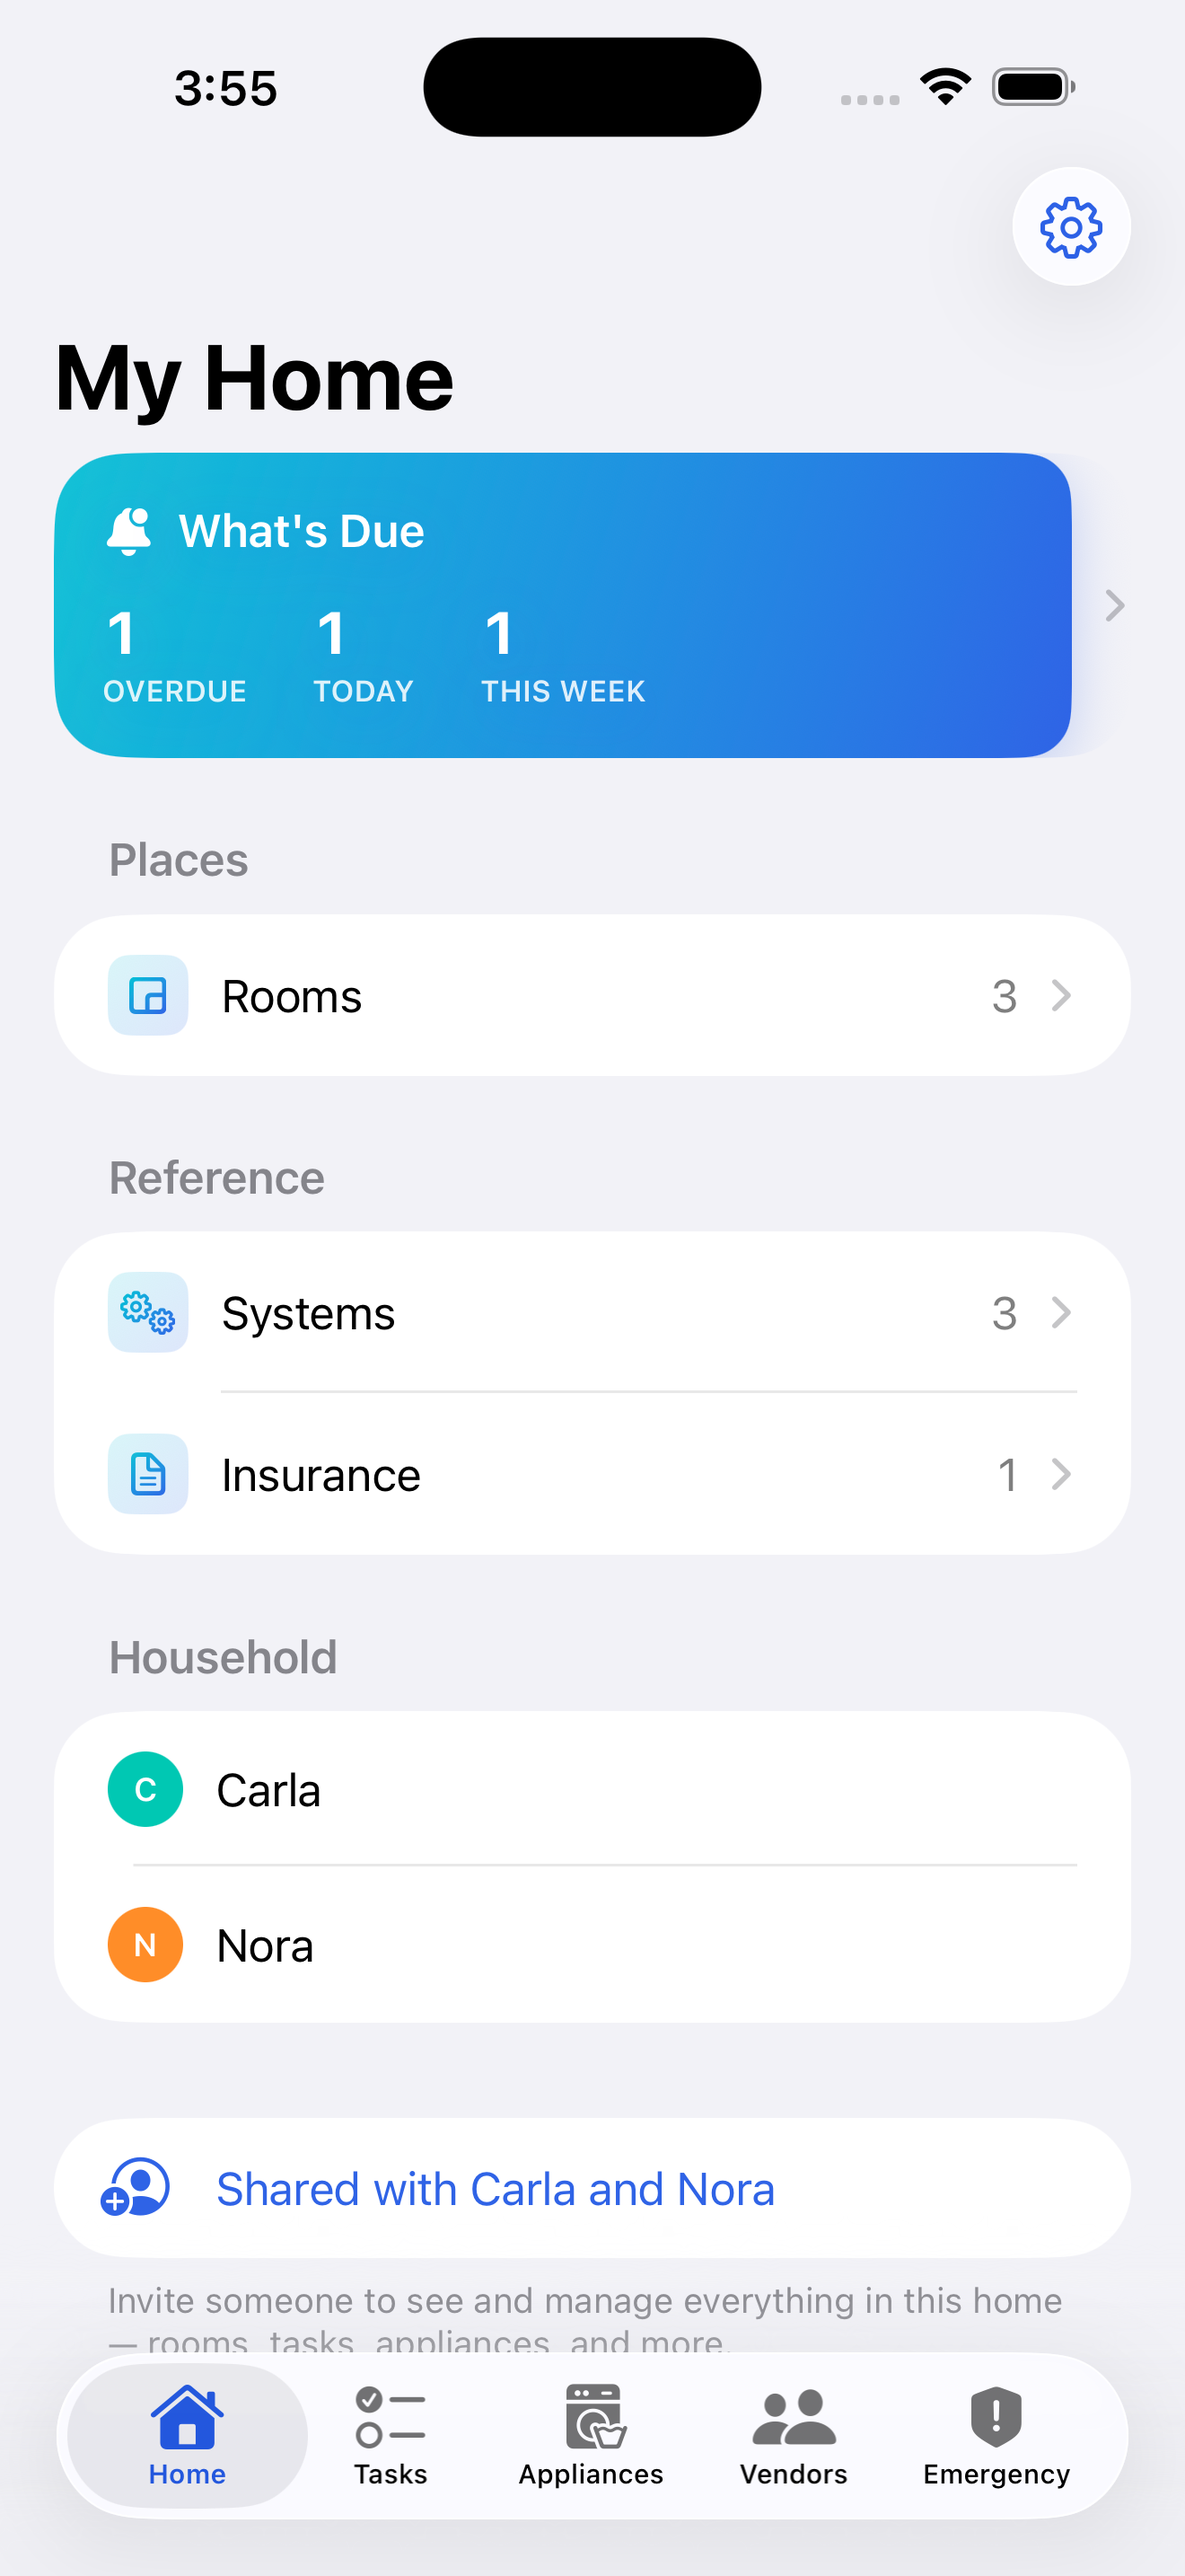
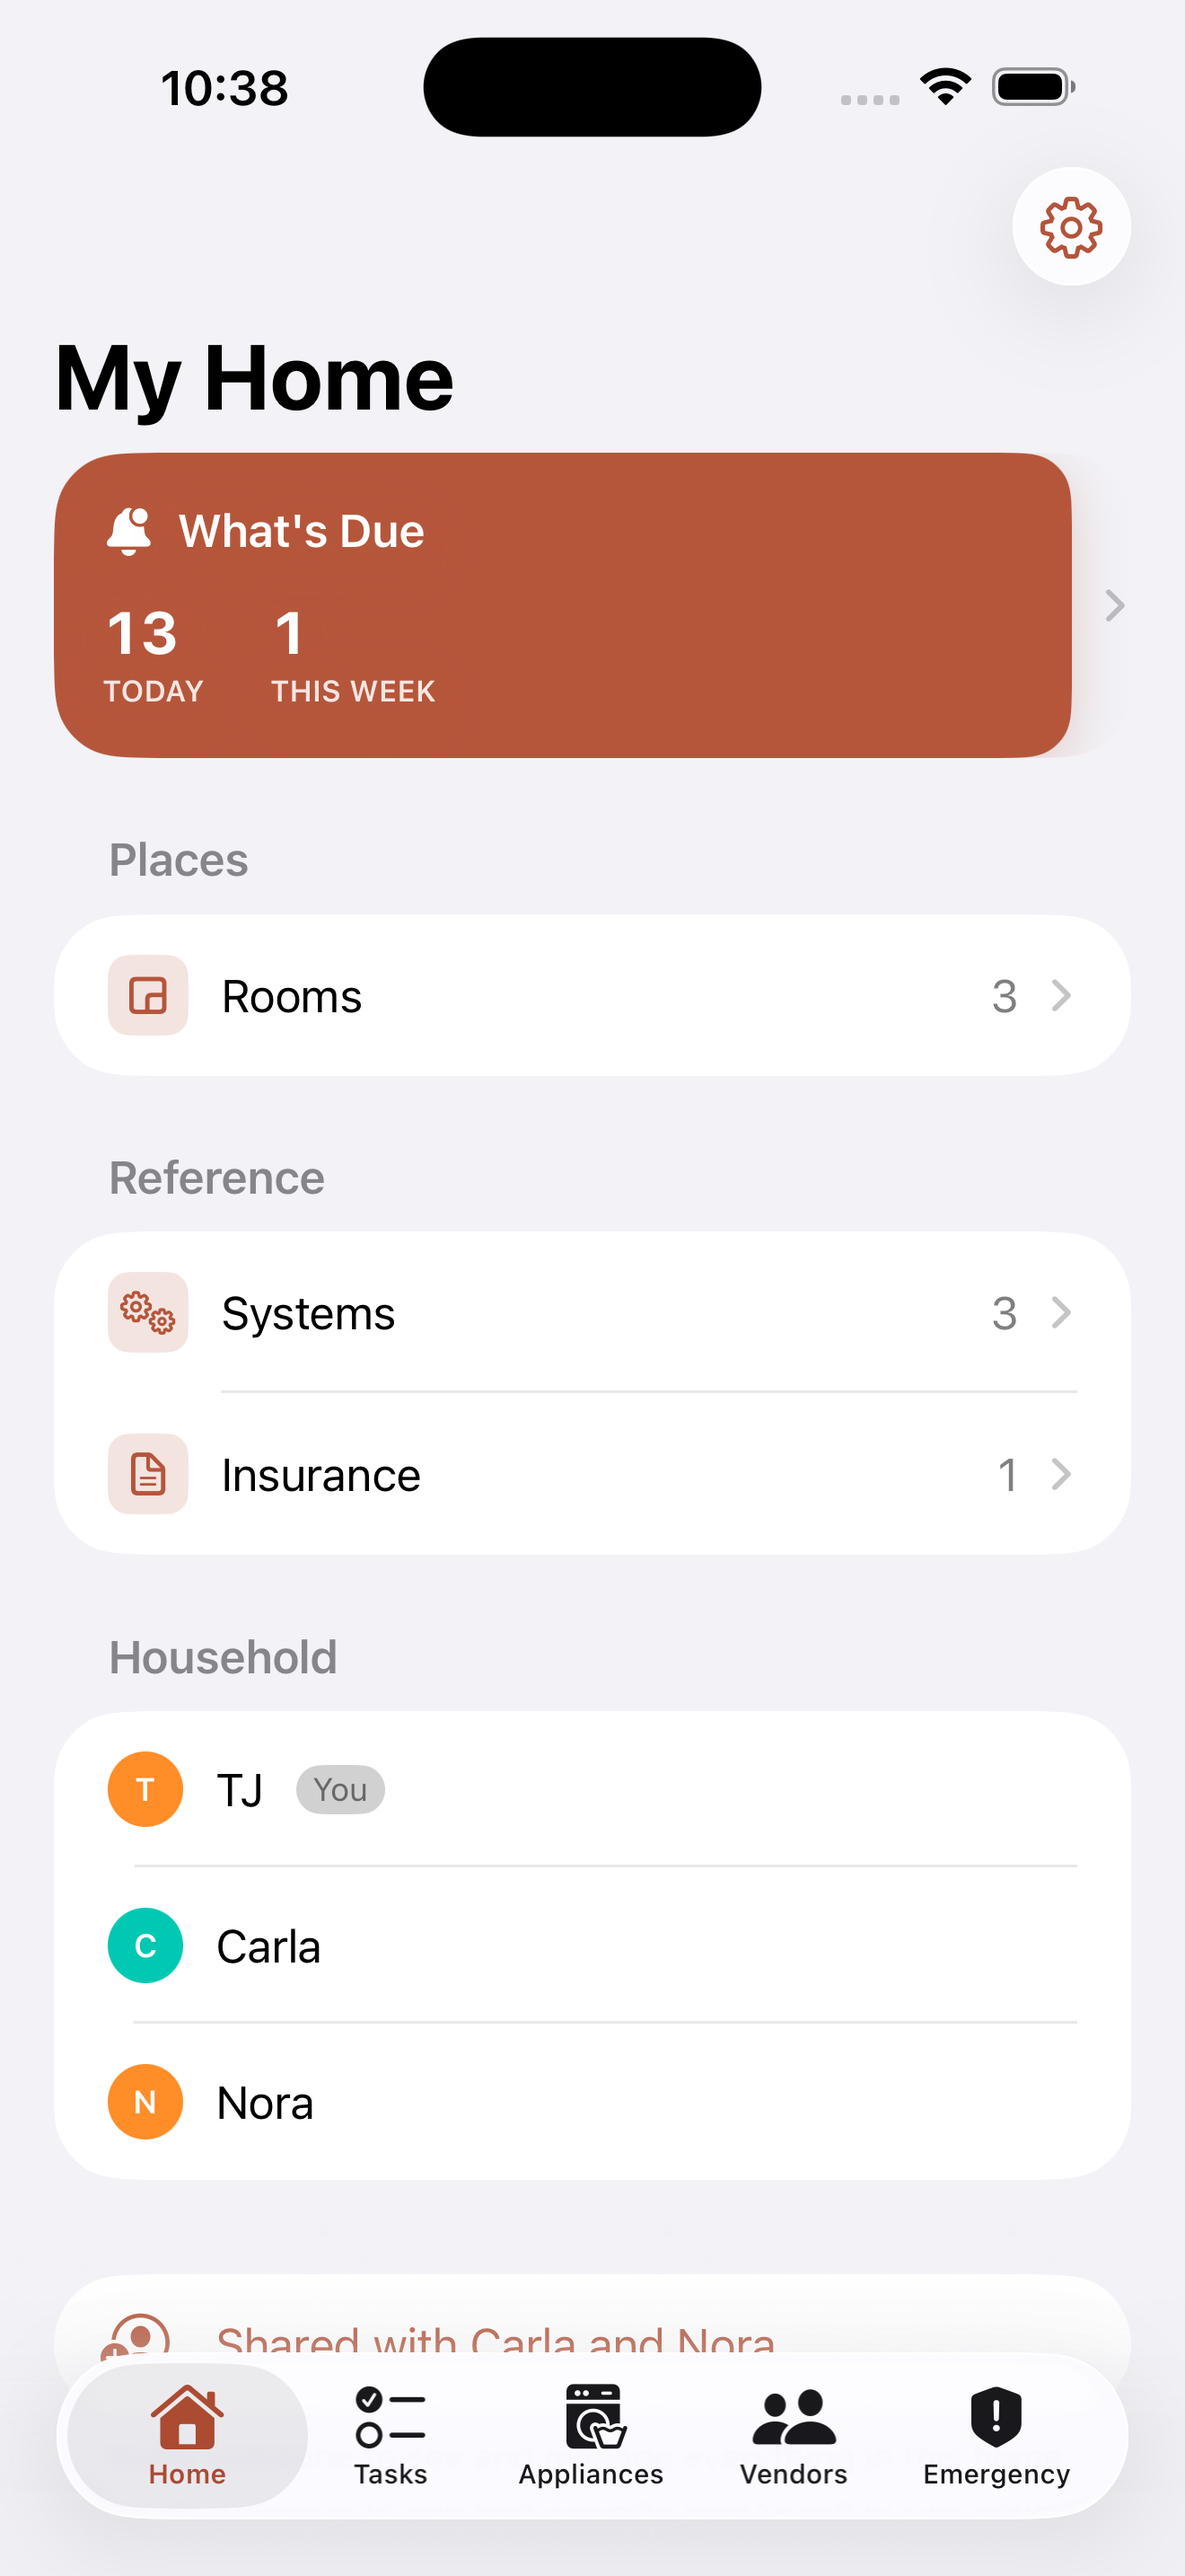
Update Steward screenshots for v1.1 redesign
Swap in the v1.1 App Store screenshots (new terracotta accent, TJ in
household), add Vendors and Emergency to the screens grid for the new
tabs, and replace the privacy section image with the updated
price/privacy composite. Also fix the hero and privacy sections to
stack on mobile instead of overlapping — they were fixed 2-column
grids with no responsive breakpoint.

diff --git a/steward/index.html b/steward/index.html
@@ -32,6 +32,12 @@
     --border:#33291F;--border-strong:#463A2B;
   }
 }
+.hero-grid{display:grid;grid-template-columns:1fr;gap:32px;align-items:center;}
+.privacy-grid{display:grid;grid-template-columns:1fr;gap:24px;align-items:center;}
+@media (min-width:760px){
+  .hero-grid{grid-template-columns:minmax(0,1fr) minmax(0,460px);gap:48px;}
+  .privacy-grid{grid-template-columns:minmax(0,1fr) minmax(0,320px);gap:32px;}
+}
 html{background:var(--bg);color-scheme:light dark;}
 body{margin:0;background:var(--bg);color:var(--text);font-family:-apple-system,BlinkMacSystemFont,'Segoe UI',Roboto,sans-serif;-webkit-font-smoothing:antialiased;}
 a{color:var(--accent);text-decoration:none;}
@@ -58,7 +64,7 @@ img{max-width:100%;height:auto;display:block;}
     </div>
   </nav>
 
-  <header style="padding:48px 0 64px;display:grid;grid-template-columns:minmax(0,1fr) minmax(0,460px);gap:48px;align-items:center;">
+  <header class="hero-grid" style="padding:48px 0 64px;">
     <div style="max-width:520px;">
       <div style="display:flex;align-items:center;gap:12px;margin-bottom:20px;">
         <img src="/icons/steward-icon.png" alt="Steward app icon" width="44" height="44" style="border-radius:9.6px;display:block;">
@@ -115,17 +121,23 @@ img{max-width:100%;height:auto;display:block;}
       <div style="border:1px solid var(--border);border-radius:16px;overflow:hidden;background:var(--card);">
         <img src="assets/final-05-share.png" alt="Household sharing screen" style="width:100%;">
       </div>
+      <div style="border:1px solid var(--border);border-radius:16px;overflow:hidden;background:var(--card);">
+        <img src="assets/final-06-vendors.png" alt="Vendors list screen" style="width:100%;">
+      </div>
+      <div style="border:1px solid var(--border);border-radius:16px;overflow:hidden;background:var(--card);">
+        <img src="assets/final-07-emergency.png" alt="Emergency shutoffs and utility contacts screen" style="width:100%;">
+      </div>
     </div>
   </section>
 
-  <section id="privacy" style="padding:40px 32px;margin-bottom:72px;border:1px solid var(--border);border-radius:16px;background:var(--bg-alt);display:grid;grid-template-columns:minmax(0,1fr) minmax(0,320px);gap:32px;align-items:center;">
+  <section id="privacy" class="privacy-grid" style="padding:40px 32px;margin-bottom:72px;border:1px solid var(--border);border-radius:16px;background:var(--bg-alt);">
     <div>
       <h2 style="font-size:21px;font-weight:600;margin:0 0 12px;color:var(--text);">Private by design.</h2>
       <p style="font-size:15.5px;line-height:1.6;color:var(--text-muted);margin:0 0 16px;max-width:480px;">Steward runs entirely on your devices and syncs only through your own iCloud. No accounts, no ads, no analytics.</p>
       <a href="privacy.html" style="font-size:14.5px;color:var(--accent);">Read the full privacy policy →</a>
     </div>
     <div style="border:1px solid var(--border);border-radius:16px;overflow:hidden;">
-      <img src="assets/final-06-privacy.png" alt="Private by design settings screen" style="width:100%;">
+      <img src="assets/final-08-price.png" alt="Steward is free to use, with a one-time $9.99 Pro unlock. No ads, no tracking, no servers of ours." style="width:100%;">
     </div>
   </section>
 
